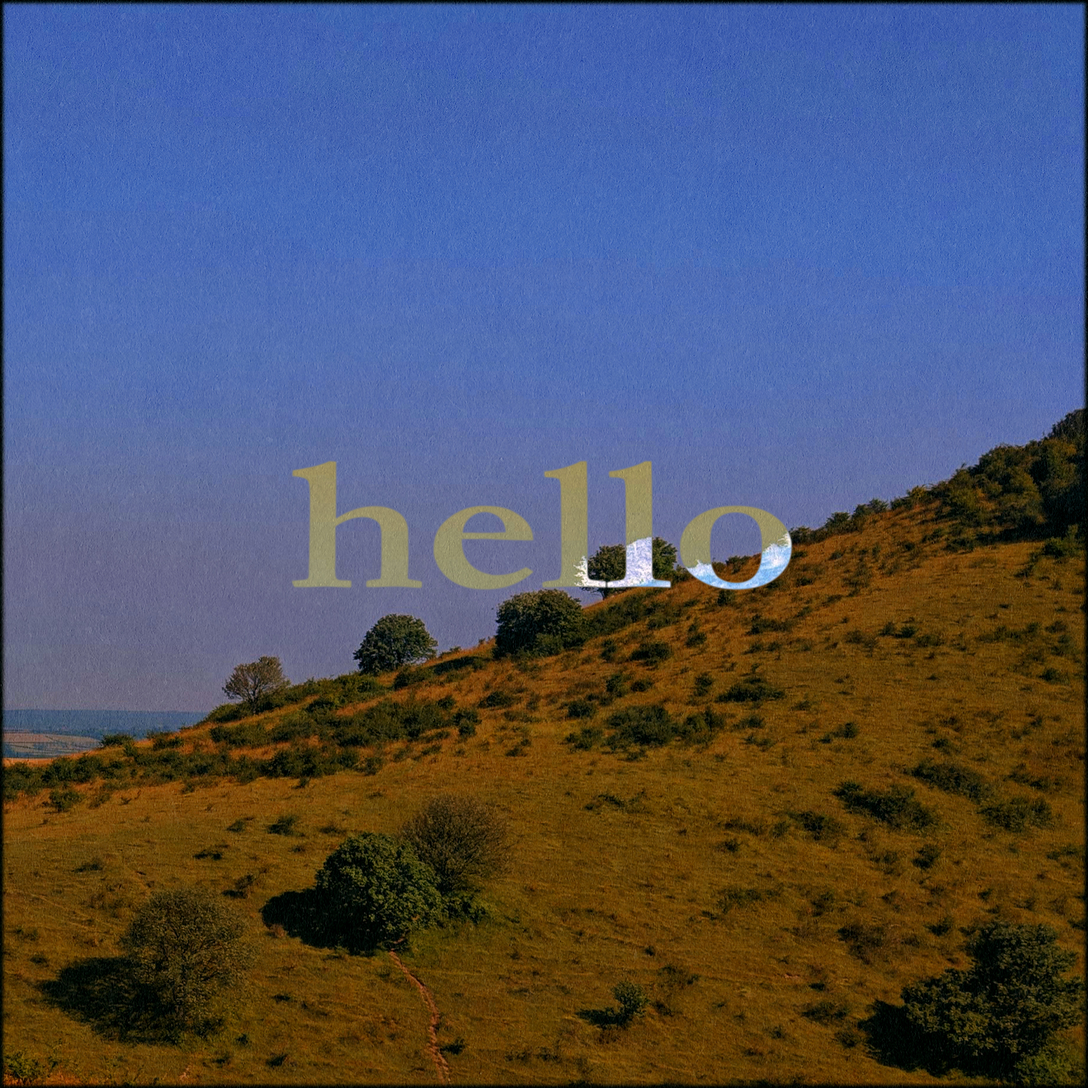
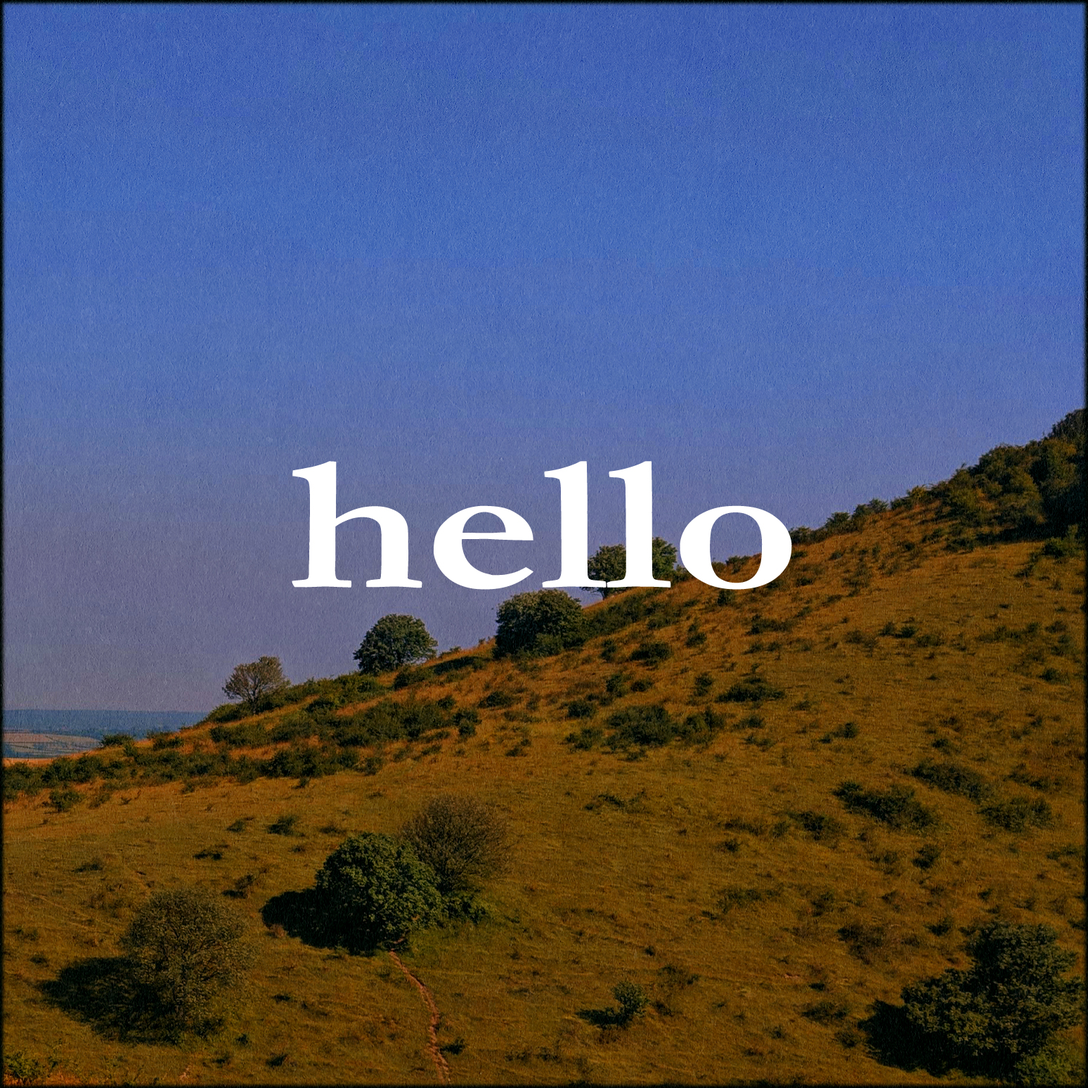
index imgs more readable

Changed region(s): [[0.2791, 0.4031, 0.7442, 0.5581]]

diff --git a/index.html b/index.html
@@ -37,7 +37,7 @@
 		<img class="mySlides index_centre_img" src="assets/img/h_3.jpg" alt="welcome">
 		<img class="mySlides index_centre_img" src="assets/img/h_4.jpg" alt="welcome">
 		<img class="mySlides index_centre_img" src="assets/img/h_5.jpg" alt="welcome">
-		<img class="mySlides index_centre_img" src="assets/img/h_6.jpg" alt="welcome">
+		<img class="mySlides index_centre_img " src="assets/img/h_6.jpg" alt="welcome">
 		<img class="mySlides index_centre_img" src="assets/img/h_7.jpg" alt="welcome">
 		<img class="mySlides index_centre_img" src="assets/img/h_8.jpg" alt="welcome">
 		<img class="mySlides index_centre_img" src="assets/img/h_9.jpg" alt="welcome">
@@ -47,6 +47,7 @@
 		<img class="mySlides index_centre_img" src="assets/img/h_13.jpg" alt="welcome">
 		<img class="mySlides index_centre_img" src="assets/img/h_14.jpg" alt="welcome">
 		<img class="mySlides index_centre_img" src="assets/img/h_15.jpg" alt="welcome">
+		<img class="mySlides index_centre_img" src="assets/img/h_16.jpg" alt="welcome">
 	</div>
     <h1 class="index_textbox text-center" data-aos="zoom-in" data-aos-duration="1850">welcome to my website.</h1>
     <footer class="text-center footer">
@@ -56,7 +57,6 @@
     <script src="assets/bootstrap/js/bootstrap.min.js"></script>
     <script src="assets/js/bs-init.js"></script>
     <script src="https://cdnjs.cloudflare.com/ajax/libs/aos/2.1.1/aos.js"></script>
-    <script src="assets/js/slider.js"></script>
 	<script src="assets/js/homepage_slider.js"></script>
 </body>
 

diff --git a/assets/js/homepage_slider.js b/assets/js/homepage_slider.js
@@ -10,5 +10,5 @@ function carousel() {
   slideIndex++;
   if (slideIndex > x.length) {slideIndex = 1}
   x[slideIndex-1].style.display = "block";
-  setTimeout(carousel, 1000); // Change image every 2 seconds
+  setTimeout(carousel, 400); // Change image every 2 seconds
 }
